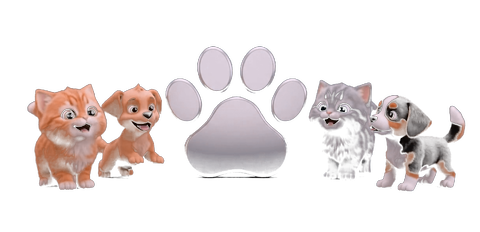
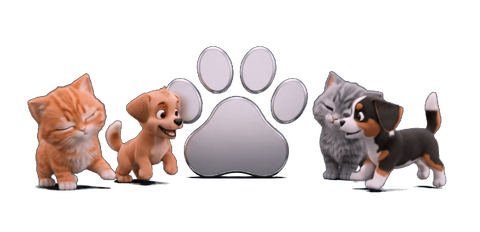
fix: preserve pet markings in welcome chroma

Changed region(s): [[0.0312, 0.3017, 0.9688, 0.8448], [0.5625, 0.2716, 0.5938, 0.3017]]

diff --git a/src/features/auth/AuthWelcome.jsx b/src/features/auth/AuthWelcome.jsx
@@ -37,8 +37,8 @@ export function AuthWelcome({ onCreateAccount, onLogin }) {
           >
             {showAnimation ? <picture>
               <source srcSet="/assets/illustrations/welcome-pets-chroma.webp" type="image/webp" />
-              <img className="auth-welcome__media" src="/assets/illustrations/welcome-pets-poster.png" alt="Gatos y cachorros jugando alrededor de una huella de PataWallet" width="480" height="233" fetchPriority="high" />
-            </picture> : <img className="auth-welcome__media" src="/assets/illustrations/welcome-pets-poster.png" alt="Gatos y cachorros jugando alrededor de una huella de PataWallet" width="480" height="233" fetchPriority="high" />}
+              <img className="auth-welcome__media" src="/assets/illustrations/welcome-pets-poster.png" alt="Gatos y cachorros jugando alrededor de una huella de PataWallet" width="480" height="232" fetchPriority="high" />
+            </picture> : <img className="auth-welcome__media" src="/assets/illustrations/welcome-pets-poster.png" alt="Gatos y cachorros jugando alrededor de una huella de PataWallet" width="480" height="232" fetchPriority="high" />}
           </motion.div>
         </div>
 

diff --git a/docs/IMPLEMENTATION_STATUS.md b/docs/IMPLEMENTATION_STATUS.md
@@ -2,10 +2,11 @@
 
 ## Video con chroma en la bienvenida · 10 de octubre de 2026
 
-- La portada de acceso muestra el clip aportado por Danilo en lugar de la tarjeta PNG. Se eliminó el verde por chroma key y se exportó WebP animado con alfa real (480×232, 72 cuadros a 12 fps, 1.988.308 bytes, en bucle, sin audio); el póster PNG de respaldo mide 480×232 y pesa 168.610 bytes.
+- La portada de acceso muestra el clip aportado por Danilo en lugar de la tarjeta PNG. Se eliminó el verde por chroma key y se exportó WebP animado con alfa real (480×232, 72 cuadros a 12 fps, 1.139.174 bytes, en bucle, sin audio); el póster PNG de respaldo mide 480×232 y pesa 155.410 bytes.
+- Ajuste de chroma del 10 de octubre: se redujo la tolerancia para que los tonos naturales del pelaje no se confundan con el verde del fondo. La revisión de seis momentos del clip confirma que se conservan las manchas del cachorro tricolor y las rayas del gato gris, manteniendo el fondo transparente. El PNG estático usa la misma corrección.
 - La escena conserva sus colores sobre el fondo azul noche. El movimiento se reemplaza por el póster cuando `prefers-reduced-motion` está activo, el ajuste propio está en «Desactivado» o se oculta la pestaña; al volver a la página continúa la animación. PNG también queda como fuente alternativa del elemento `<picture>`.
-- Ambos archivos están incluidos en la precarga offline de la PWA. El límite por archivo aumentó a 2.300.000 bytes; el build precarga 39 recursos (8.351,96 KiB).
-- Verificación: `npm run lint` pasó; `npm run build` pasó. Playwright directo en Chromium y WebKit revisó la imagen animada, transparencia alfa en sus esquinas, póster con movimiento reducido y vistas 390×844, 375×812 y 1440×900 sin desbordamiento horizontal. La suite Vitest dio 206 correctas y 2 fallidas (208 totales): expectativas previas del parser en `tests/api/bank-email.test.js` para `7,90.0` y separadores alternos de Lulo. No ejecuté la suite Playwright del proyecto ni probé en un iPhone físico.
+- Ambos archivos están incluidos en la precarga offline de la PWA. El límite por archivo es 2.300.000 bytes; el build actual precarga 39 recursos (7.509,84 KiB).
+- Verificación tras la corrección: `npm run lint` y `npm run build` pasaron; el build incluye los dos recursos en la precarga. Revisé seis momentos del clip sobre el fondo azul y la animación con transparencia en Chromium y WebKit (480×232, las esquinas permanecen transparentes y los fotogramas cambian). El póster PNG conserva alfa y se muestra con movimiento reducido. La bienvenida se revisó en Chromium a 390×844, 375×812 y 1440×900 sin desbordamiento horizontal; no registró errores de consola. La corrida anterior de Vitest dio 206 correctas y 2 fallidas (208 totales): expectativas previas del parser en `tests/api/bank-email.test.js` para `7,90.0` y separadores alternos de Lulo; no repetí esa suite en este ajuste de recursos. No probé en un iPhone físico.
 - El video fue aportado por el usuario; la procedencia/licencia externa no se verificó independientemente. No se conectó Supabase ni se hizo una comprobación de despliegue.
 
 ## Bienvenida y conexiones durante el registro · 10 de octubre de 2026
